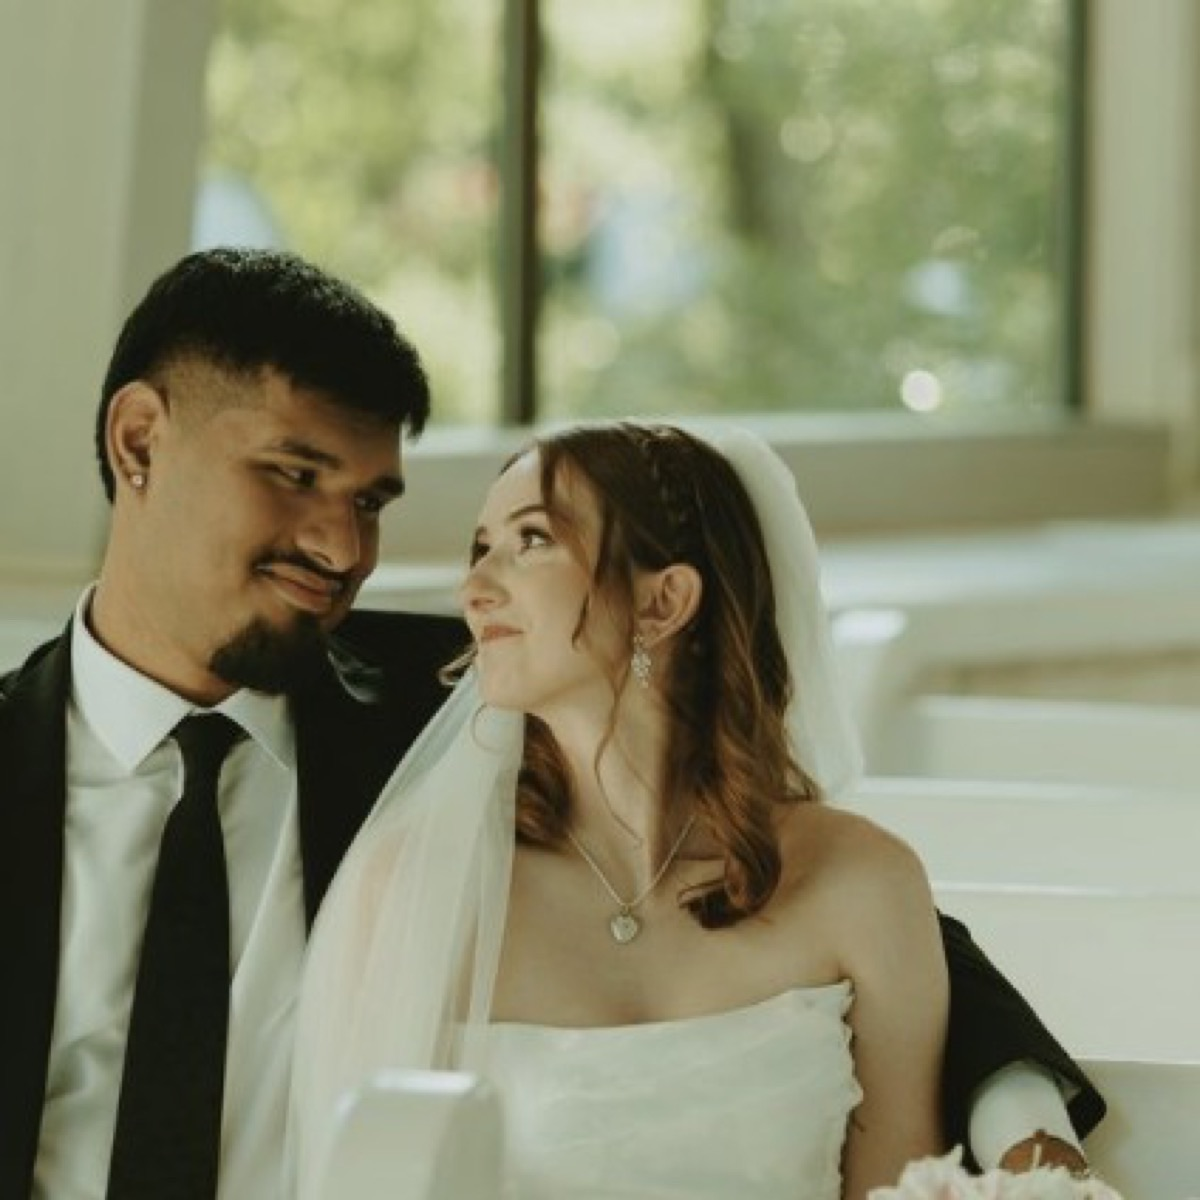
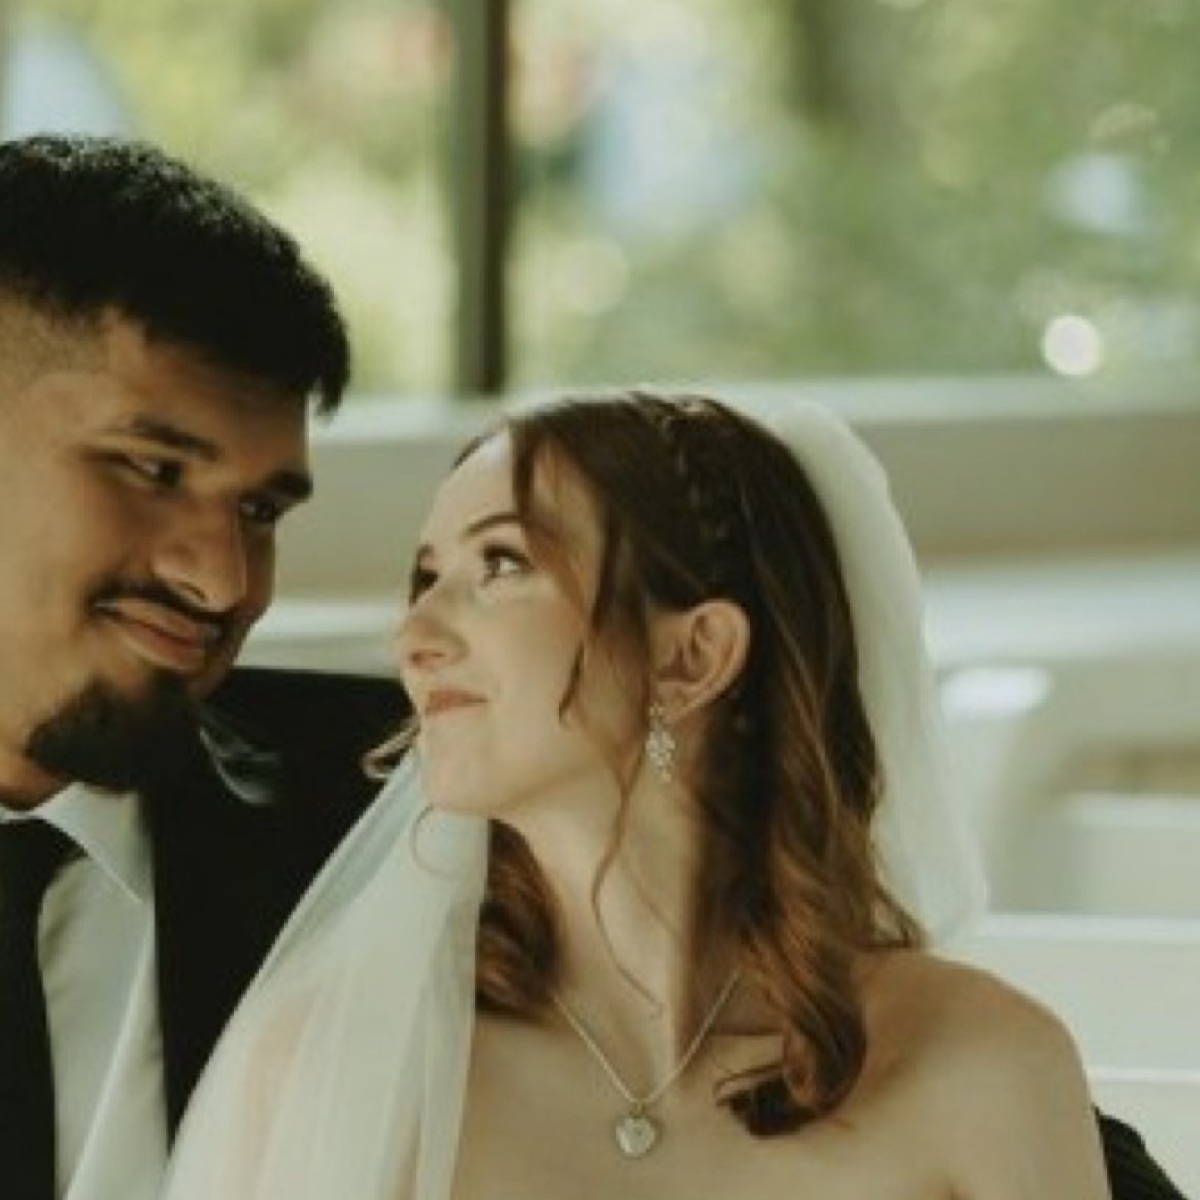
Align mosaic grid layout and refresh lobby and wedding images.
Use uniform square tiles for client gifts, regenerate lobby displays for a modern corporate lobby, and crop the wedding photo tighter on the couple.

diff --git a/styles.css b/styles.css
@@ -717,11 +717,6 @@ p{color:var(--ink-soft)}
   object-fit:cover;
   flex:0 0 auto;
 }
-.mosaic-card--fit img{
-  aspect-ratio:4/3;
-  object-fit:cover;
-  object-position:center;
-}
 .mosaic-card figcaption{
   flex:1 0 auto;
   display:flex;

diff --git a/index.html b/index.html
@@ -107,8 +107,8 @@
             <img src="images/memoryaids.jpeg" alt="Memory aid photo book" loading="lazy" width="600" height="600">
             <figcaption><h3>Memory Aids</h3><p>Photo books with family pictures, names and memories help those with fading cognition remember.</p></figcaption>
           </figure>
-          <figure class="mosaic-card mosaic-card--fit reveal">
-            <img src="images/client-gifts.jpg" alt="Realtor presenting a custom photo book to new homeowners on their front porch" loading="lazy" width="600" height="450">
+          <figure class="mosaic-card reveal">
+            <img src="images/client-gifts.jpg" alt="Realtor presenting a custom photo book to new homeowners on their front porch" loading="lazy" width="600" height="600">
             <figcaption><h3>Client Gifts</h3><p>Whether it's a new home or a welcome gift for a new client, make yourself memorable.</p></figcaption>
           </figure>
           <figure class="mosaic-card reveal">